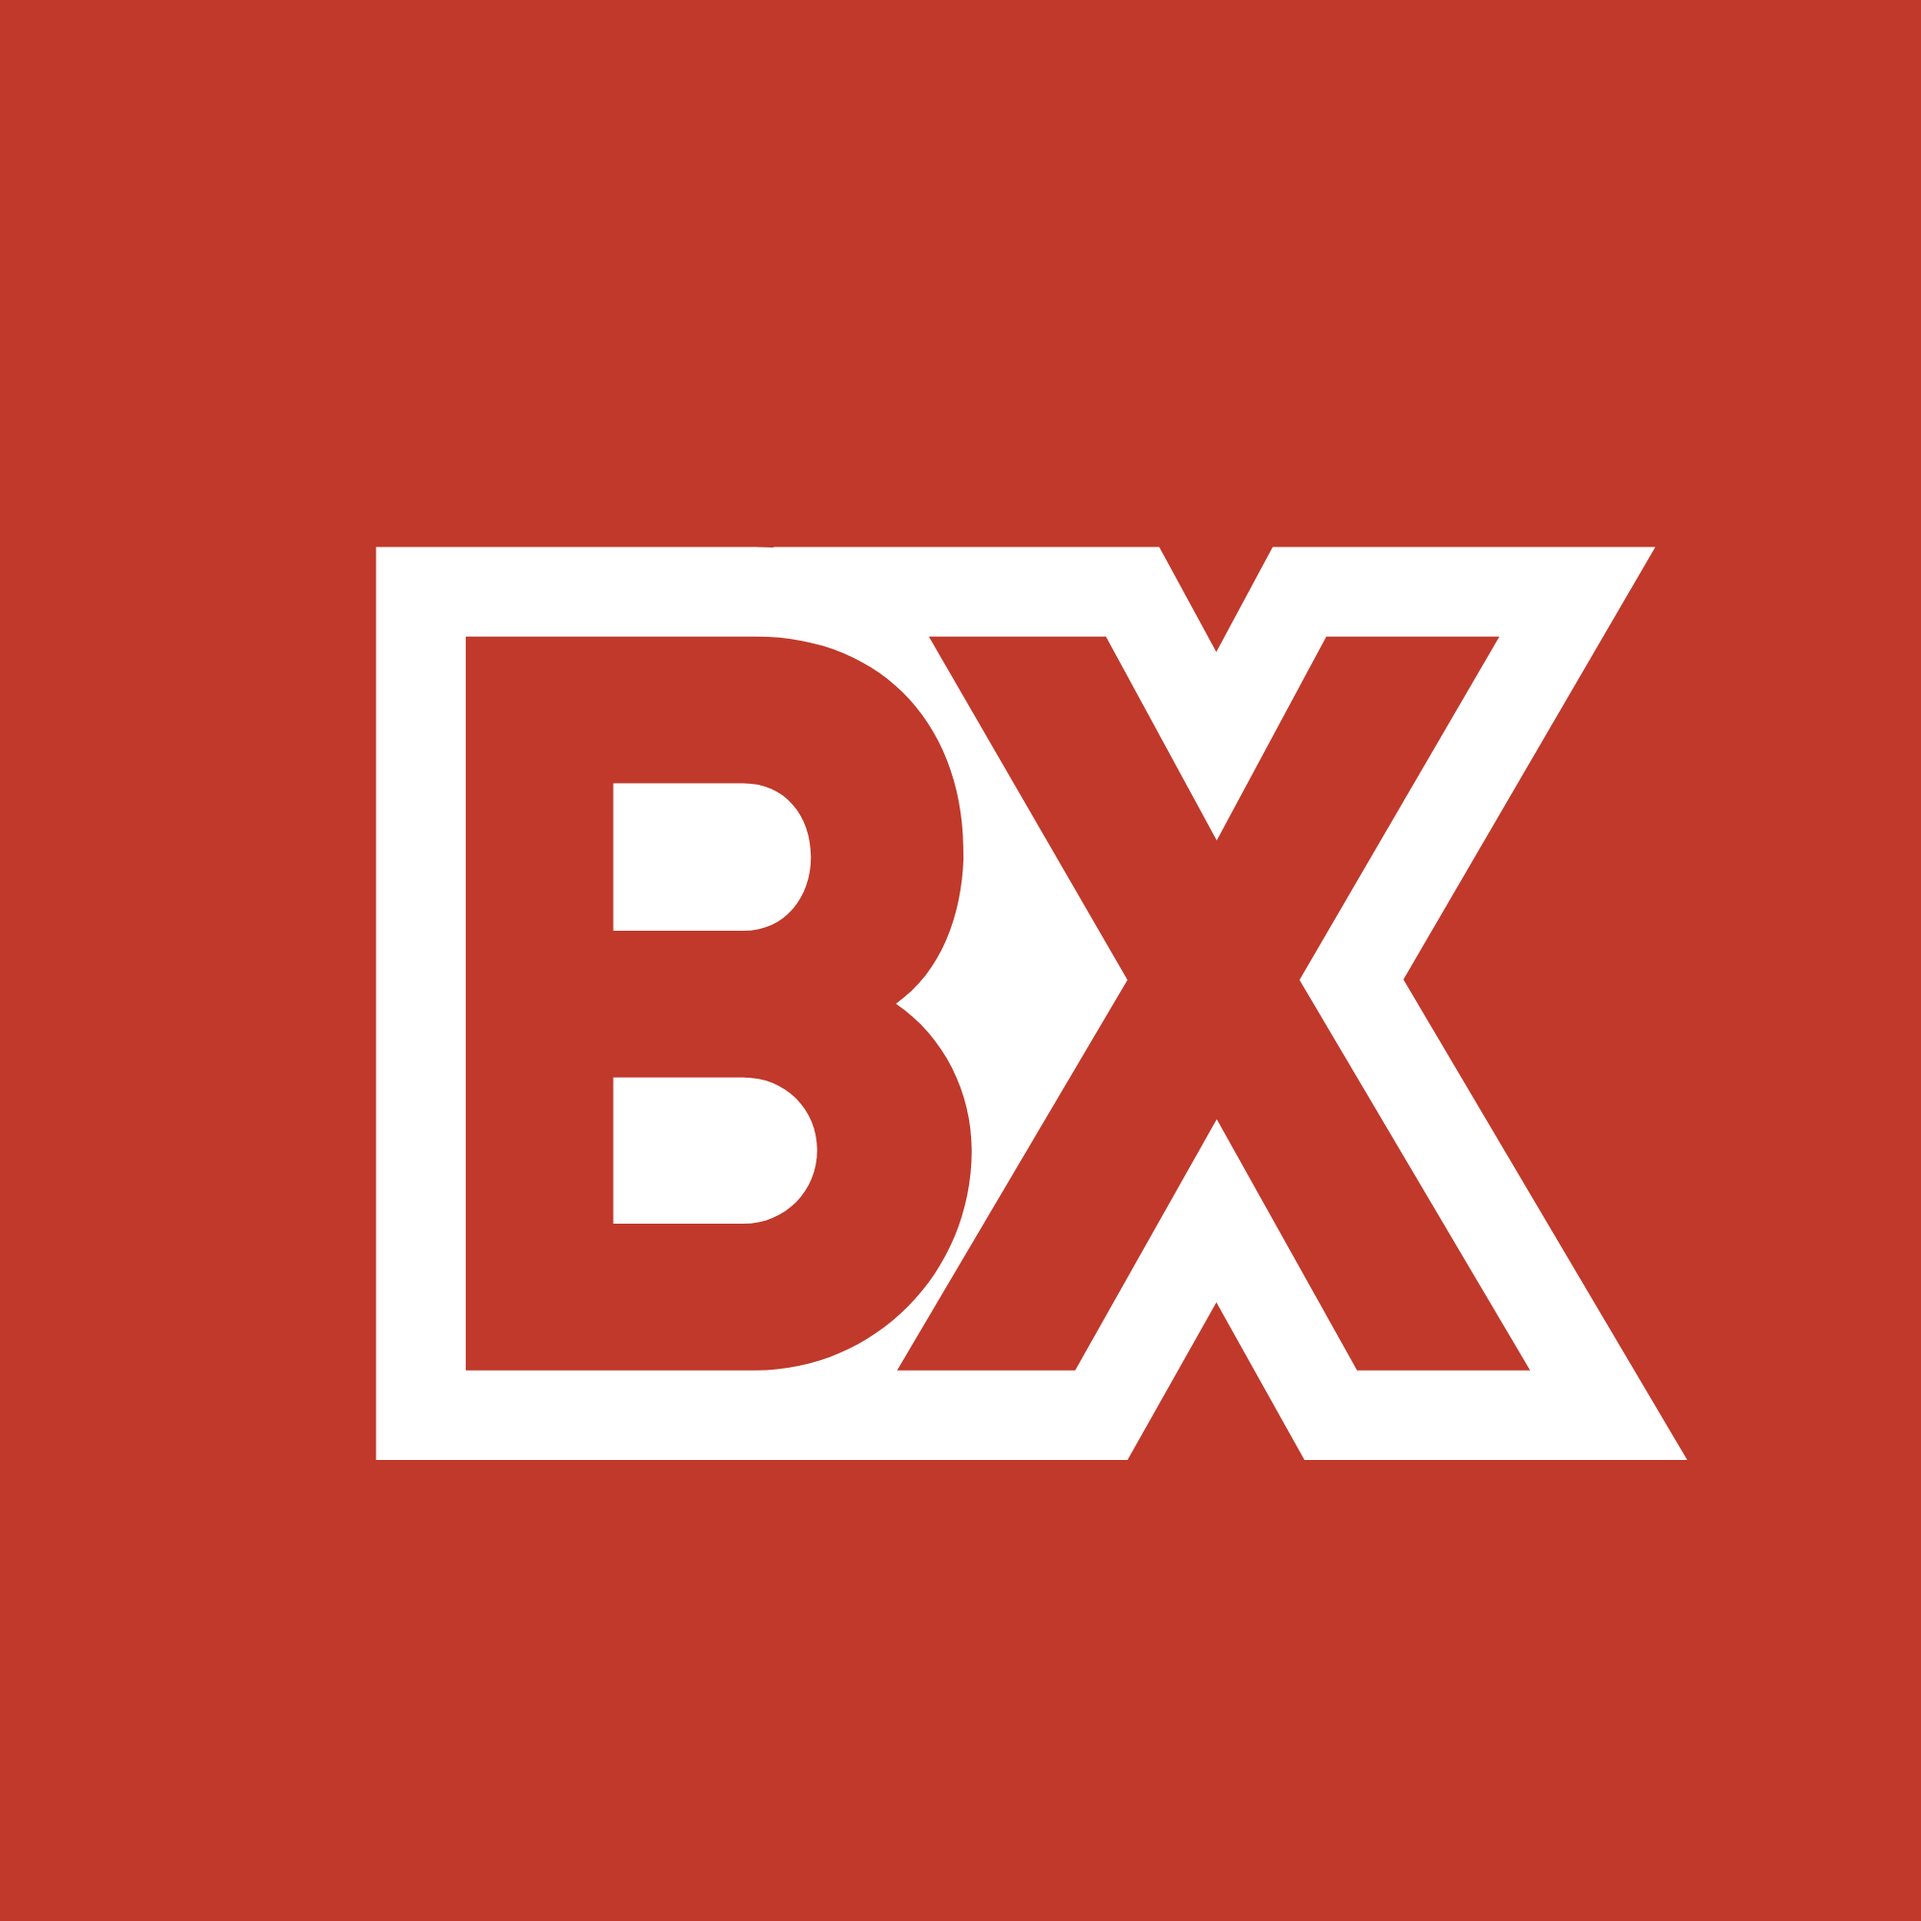
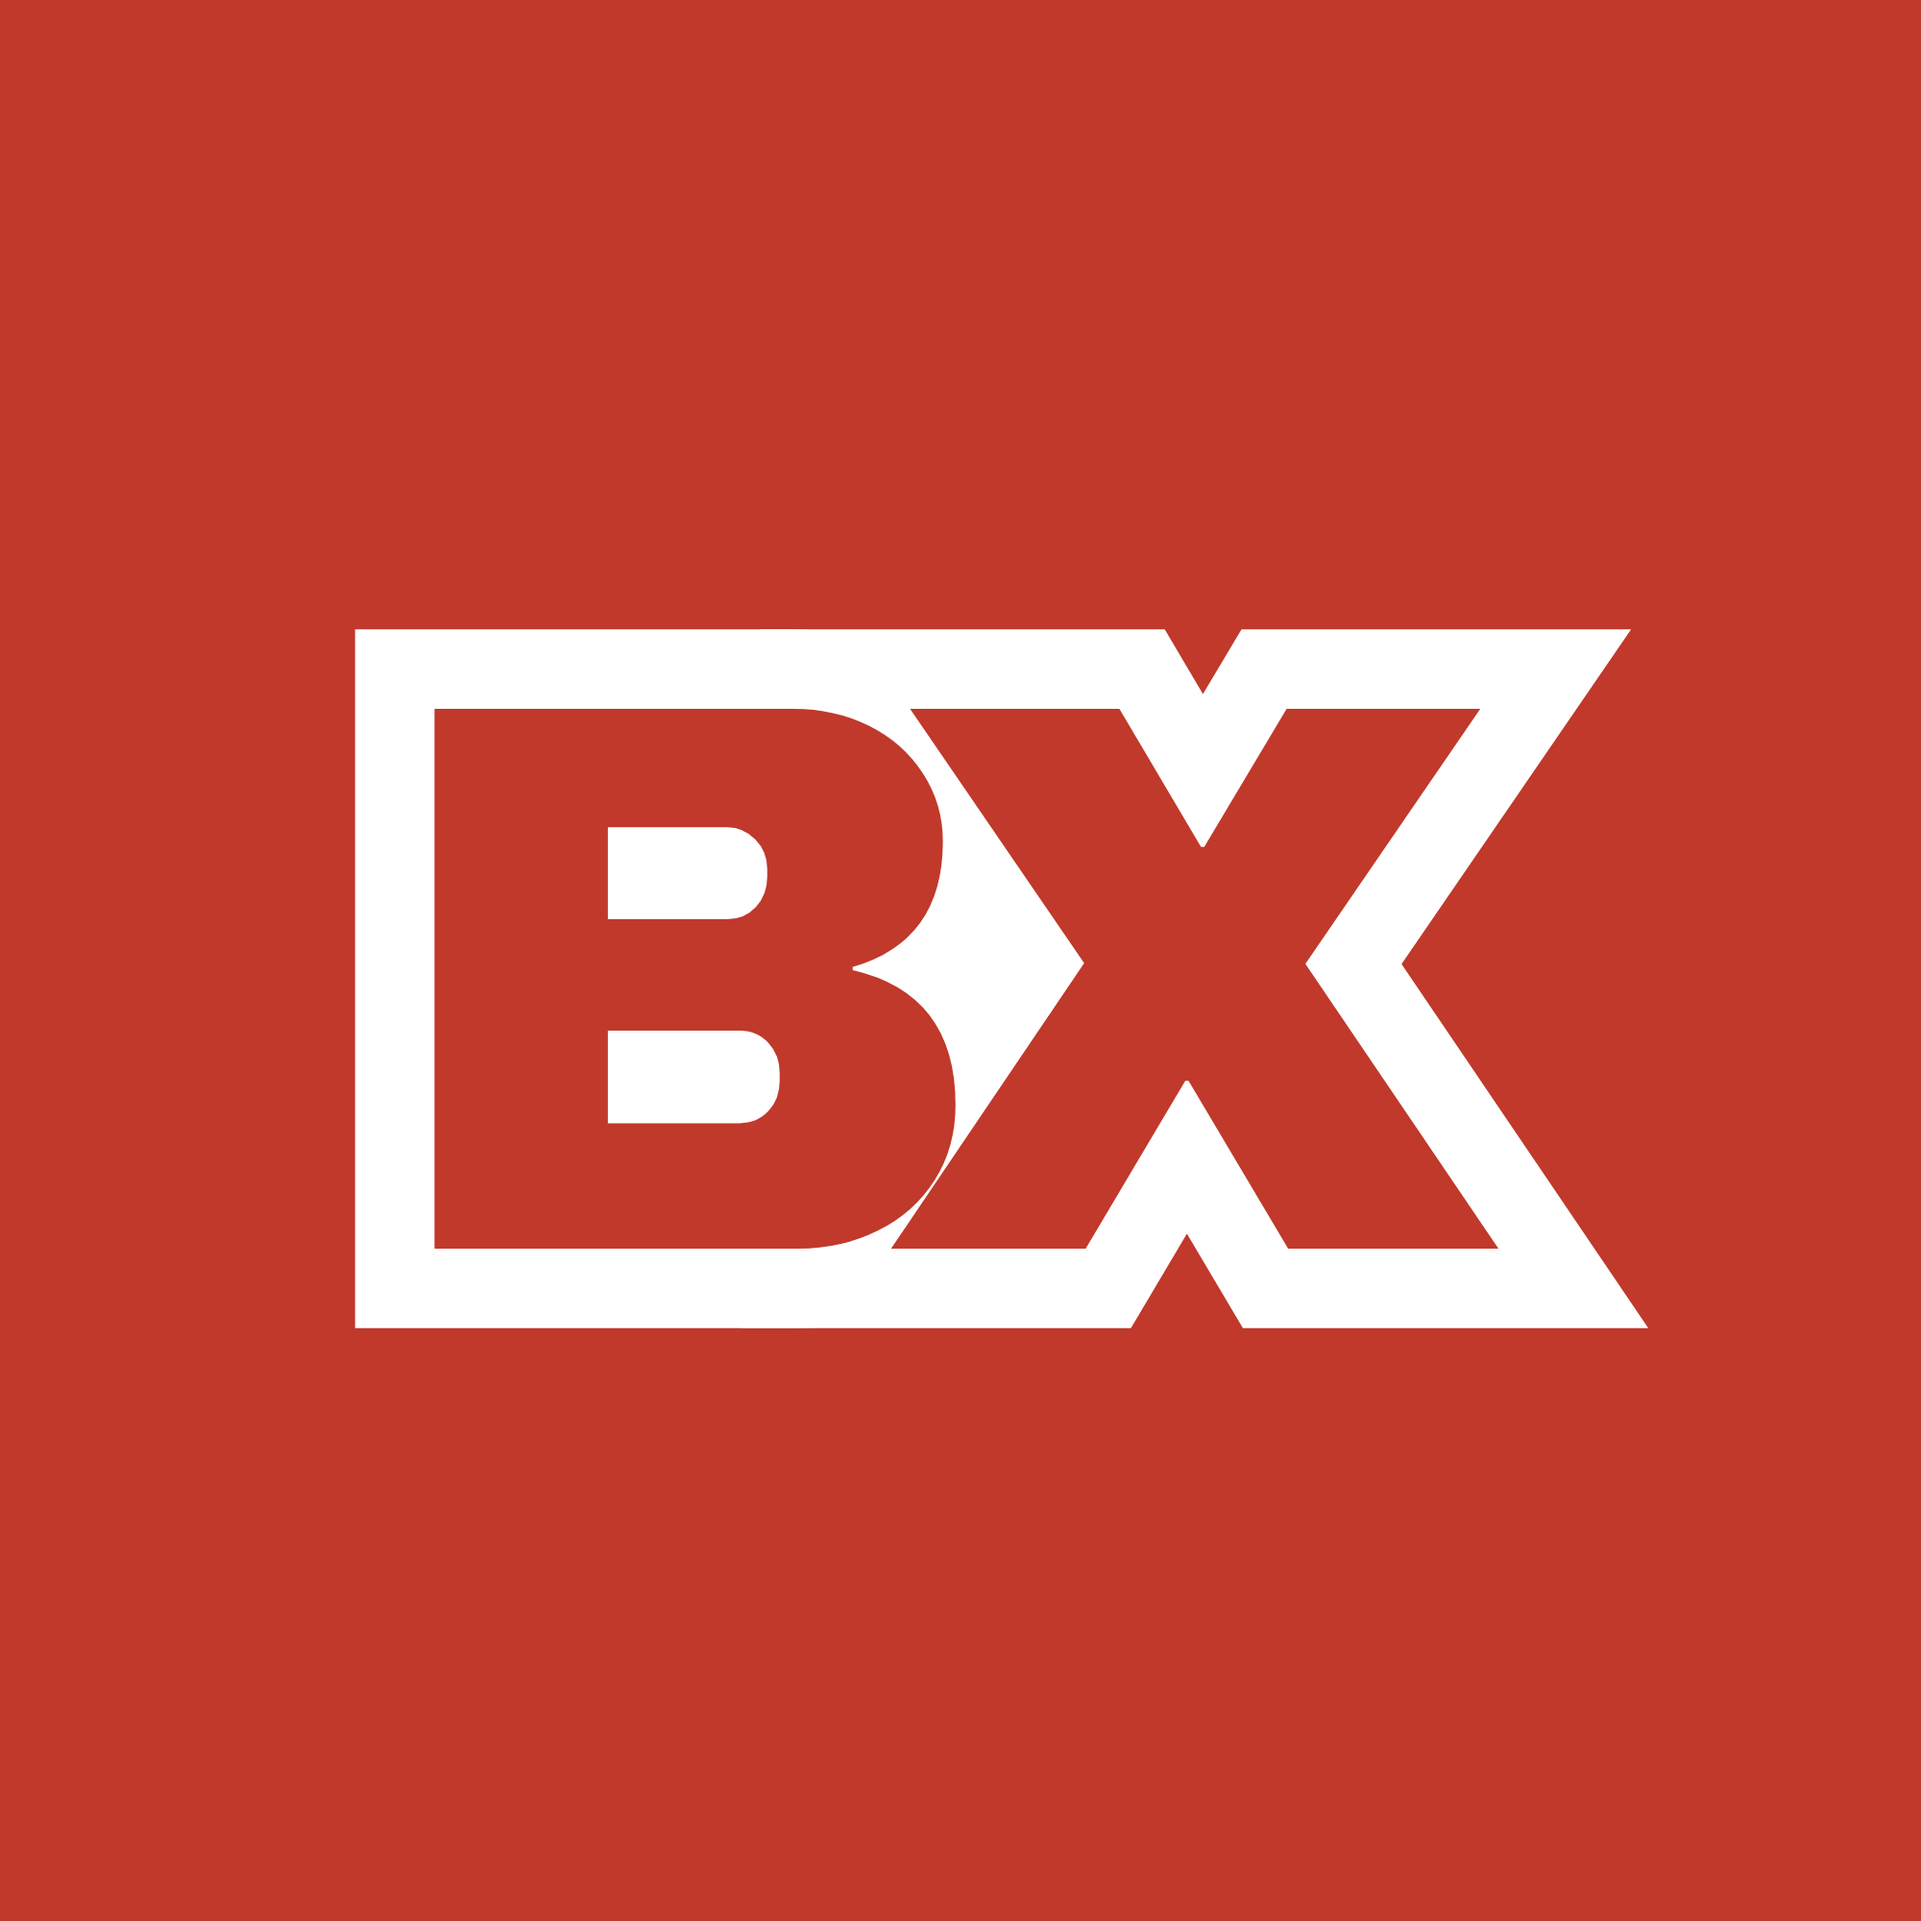
adjusted more elements and touched up small details

diff --git a/src/components/Footer.jsx b/src/components/Footer.jsx
@@ -1,7 +1,22 @@
+import { useNavigate } from "react-router-dom";
 import bxLogo from "../assets/bx.png";
 import "./Footer.css";
 
 export default function Footer() {
+  const navigate = useNavigate();
+
+  function goTo(path) {
+    navigate(path);
+    window.scrollTo({ top: 0, behavior: "smooth" });
+  }
+
+  function goToSection(id) {
+    navigate("/");
+    setTimeout(() => {
+      document.getElementById(id)?.scrollIntoView({ behavior: "smooth", block: "start" });
+    }, 50);
+  }
+
   return (
     <footer className="footer">
       <div className="footer-inner">
@@ -23,22 +38,22 @@ export default function Footer() {
           <div className="footer-col">
             <h4 className="footer-col-heading">Browse</h4>
             <ul className="footer-col-list">
-              <li>Featured Listings</li>
-              <li>New Postings</li>
+              <li onClick={() => goToSection("featured")}>Featured Listings</li>
+              <li onClick={() => goToSection("new-listings")}>New Postings</li>
               <li>Nonfiction</li>
-              <li>Horror</li>
-              <li>Mystery</li>
-              <li>Romance</li>
-              <li>Sci-Fi</li>
-              <li>Textbooks</li>
+              <li onClick={() => goToSection("horror")}>Horror</li>
+              <li onClick={() => goToSection("mystery")}>Mystery</li>
+              <li onClick={() => goToSection("romance")}>Romance</li>
+              <li onClick={() => goToSection("sci-fi")}>Sci-Fi</li>
+              <li onClick={() => goToSection("textbooks")}>Textbooks</li>
             </ul>
           </div>
 
           <div className="footer-col">
             <h4 className="footer-col-heading">Trading</h4>
             <ul className="footer-col-list">
-              <li>Add a Listing</li>
-              <li>How Trades Work</li>
+              <li onClick={() => goTo("/add-book")}>Add a Listing</li>
+              <li onClick={() => goTo("/trade")}>How Trades Work</li>
               <li>Condition Guide</li>
               <li>Shipping Info</li>
             </ul>

diff --git a/src/pages/HomePage.jsx b/src/pages/HomePage.jsx
@@ -34,6 +34,10 @@ const CATEGORIES_BOTTOM = [
   { title: "Textbooks",  description: "Academic titles for students — swap last semester's books for next semester's." },
 ];
 
+function featuredSort(listings) {
+  return [...listings].sort((a, b) => (b.pageCount ?? 0) - (a.pageCount ?? 0));
+}
+
 function toId(title) {
   return title.toLowerCase().replace(/\s+/g, "-");
 }
@@ -62,6 +66,7 @@ function toListing(listing, usernameById) {
     sellerId:     listing.user_id,
     description:  book.description ?? null,
     notes:        listing.notes ?? null,
+    createdAt:    listing.created_at,
   };
 }
 
@@ -86,11 +91,11 @@ export default function HomePage() {
   }, [listings]);
 
   useEffect(() => {
-    if (location.hash) {
+    if (location.hash && listings.length > 0) {
       const el = document.getElementById(location.hash.slice(1));
       if (el) el.scrollIntoView({ behavior: "smooth", block: "start" });
     }
-  }, [location.hash]);
+  }, [location.hash, listings]);
 
   useEffect(() => {
     async function fetchListings() {
@@ -99,8 +104,9 @@ export default function HomePage() {
 
       let query = supabase
         .from("trade_listings")
-        .select("id, condition, notes, book_id, user_id")
-        .eq("status", "active");
+        .select("id, condition, notes, book_id, user_id, created_at")
+        .eq("status", "active")
+        .order("created_at", { ascending: false });
       if (currentUserId) query = query.neq("user_id", currentUserId);
 
       const { data: tradeRows, error: tradeError } = await query;
@@ -150,7 +156,7 @@ export default function HomePage() {
           id={toId(cat.title)}
           title={cat.title}
           description={cat.description}
-          books={listings}
+          books={cat.title === "Featured" ? featuredSort(listings) : listings}
         />
       ))}
 

diff --git a/src/pages/AddBookPage.jsx b/src/pages/AddBookPage.jsx
@@ -91,6 +91,19 @@ export default function AddBookPage() {
       .finally(() => setSearching(false));
   }, []);
 
+  // Debounced auto-search as you type
+  useEffect(() => {
+    if (query.trim().length < 2) { setResults([]); return; }
+    const timer = setTimeout(() => {
+      setSearching(true);
+      searchBooks(query.trim(), 6)
+        .then(setResults)
+        .catch(() => setResults([]))
+        .finally(() => setSearching(false));
+    }, 100);
+    return () => clearTimeout(timer);
+  }, [query]);
+
   useEffect(() => {
     if (submitted) window.scrollTo({ top: 0, behavior: "smooth" });
   }, [submitted]);
@@ -276,7 +289,7 @@ export default function AddBookPage() {
 
         {/* Header */}
         <div className="add-book-header">
-          <h1 className="add-book-title">{isEditMode ? "Edit Book" : fromLibrary ? "List for Trade" : "Add a Book"}</h1>
+          <h1 className="add-book-title">{isEditMode ? "Edit Book" : fromLibrary ? "List for Trade" : selectedBook ? "Add Book" : "Search Book"}</h1>
         </div>
 
         {/* Step 1: Search */}

diff --git a/src/components/BookCard.css b/src/components/BookCard.css
@@ -6,9 +6,9 @@
 
 .book-card {
   display: grid;
-  grid-template-rows: 18vh 1fr;
+  grid-template-rows: 24vh 1fr;
   gap: 1.6vh;
-  height: 35vh;
+  height: 42vh;
   padding: 0.7vw;
   border-radius: 1.2vw;
   border: 1px solid #e5e7eb;
@@ -18,13 +18,13 @@
 }
 
 .book-card:hover {
-  transform: translateY(-4px);
-  box-shadow: 0 10px 28px rgba(0, 0, 0, 0.1);
+  transform: translateY(-3px);
+  box-shadow: 0 4px 12px rgba(0, 0, 0, 0.08);
   border-color: #d1d5db;
 }
 
 .book-cover-img {
-  height: 18vh;
+  height: 24vh;
   min-height: 0;
   width: 100%;
   border-radius: 1vw;
@@ -34,7 +34,7 @@
 }
 
 .book-cover-artwork {
-  height: 18vh;
+  height: 24vh;
   min-height: 0;
   border-radius: 1vw;
   display: flex;

diff --git a/src/App.jsx b/src/App.jsx
@@ -17,13 +17,13 @@ function ScrollToTop() {
 }
 
 const PAGE_TITLES = {
-  "/":               "BookX — Home",
-  "/browse":         "BookX — Browse",
-  "/trade":          "BookX — Trade",
-  "/library":        "BookX — My Library",
-  "/trade-requests": "BookX — Trade Requests",
-  "/add-book":       "BookX — Add Book",
-  "/search":         "BookX — Search",
+  "/":               "BookX",
+  "/browse":         "BookX - Browse",
+  "/trade":          "BookX - Trade",
+  "/library":        "BookX - My Library",
+  "/trade-requests": "BookX - Trade Requests",
+  "/add-book":       "BookX - Add Book",
+  "/search":         "BookX - Search",
 };
 
 function TitleManager() {

diff --git a/index.html b/index.html
@@ -2,7 +2,7 @@
 <html lang="en">
   <head>
     <meta charset="UTF-8" />
-    <link rel="icon" type="image/png" href="/src/assets/bx.png" />
+    <link rel="icon" type="image/png" href="/src/assets/bxtab.png" />
     <meta name="viewport" content="width=device-width, initial-scale=1.0" />
     <title>BookX</title>
   </head>

diff --git a/src/index.css b/src/index.css
@@ -13,6 +13,10 @@
   box-sizing: border-box;
 }
 
+input, button, textarea, select {
+  font-family: inherit;
+}
+
 html,
 body,
 #root {
@@ -24,7 +28,7 @@ body,
 
 body {
   min-height: 100vh;
-  background-color: #f7f7f8;
+  background-color: #f9fafb;
   color: #111827;
 }
 

diff --git a/src/components/Navbar.jsx b/src/components/Navbar.jsx
@@ -61,7 +61,7 @@ export default function Navbar() {
       searchBooks(searchQuery, 5)
         .then(setSuggestions)
         .catch(() => setSuggestions([]));
-    }, 200);
+    }, 100);
     return () => clearTimeout(timer);
   }, [searchQuery]);
 

diff --git a/src/components/UserCarousel.css b/src/components/UserCarousel.css
@@ -38,8 +38,8 @@
 }
 
 .user-card:hover {
-  transform: translateY(-4px);
-  box-shadow: 0 10px 28px rgba(0, 0, 0, 0.1);
+  transform: translateY(-3px);
+  box-shadow: 0 4px 12px rgba(0, 0, 0, 0.08);
   border-color: #d1d5db;
 }
 

diff --git a/src/pages/TradePage.css b/src/pages/TradePage.css
@@ -2,7 +2,7 @@
 
 .trade-page {
     min-height: 100vh;
-    background: #f5f2ee;
+    background: #f9fafb;
     font-family: 'Inter', 'Segoe UI', sans-serif;
     color: #111827;
 }

diff --git a/src/components/Auth.css b/src/components/Auth.css
@@ -9,6 +9,7 @@
   box-shadow: 0 8px 24px rgba(0, 0, 0, 0.12);
   padding: 20px;
   z-index: 200;
+  font-family: 'Inter', 'Segoe UI', system-ui, sans-serif;
 }
 
 .auth-header {

diff --git a/src/components/BookCarousel.css b/src/components/BookCarousel.css
@@ -33,3 +33,4 @@
 .book-carousel-track > * {
   flex: 0 0 calc((100% - 5 * 1vw) / 6);
 }
+
